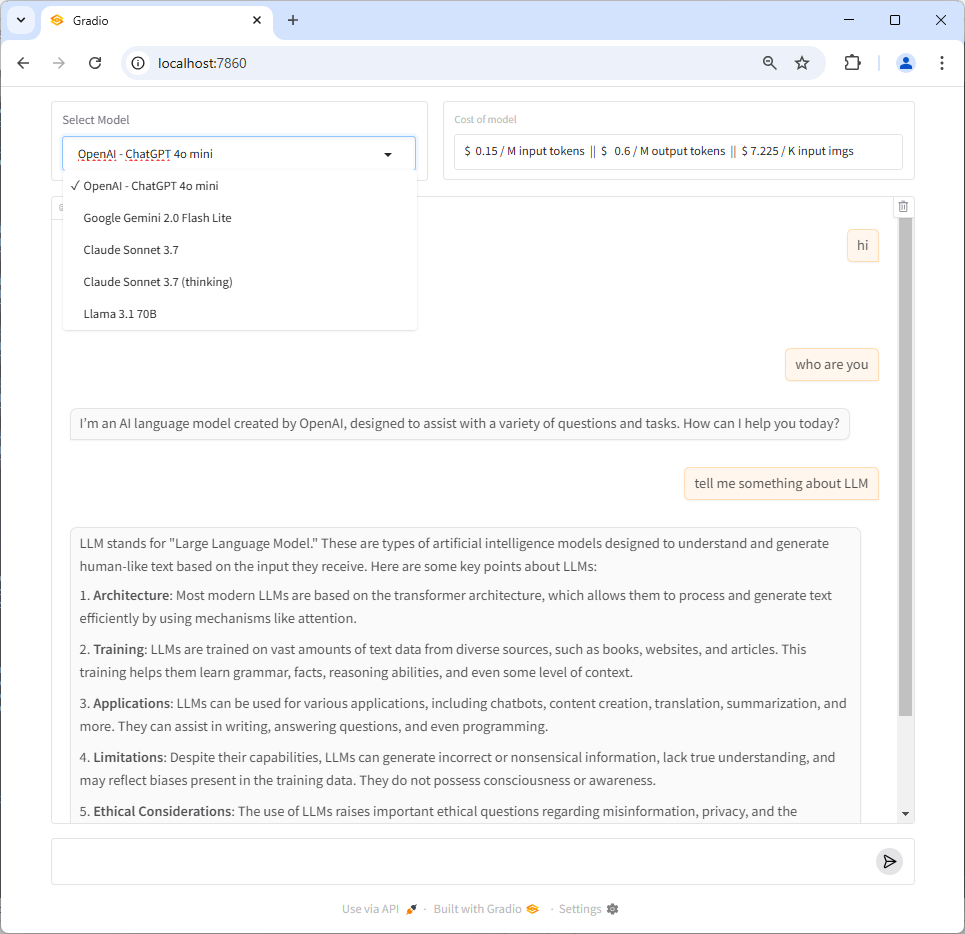
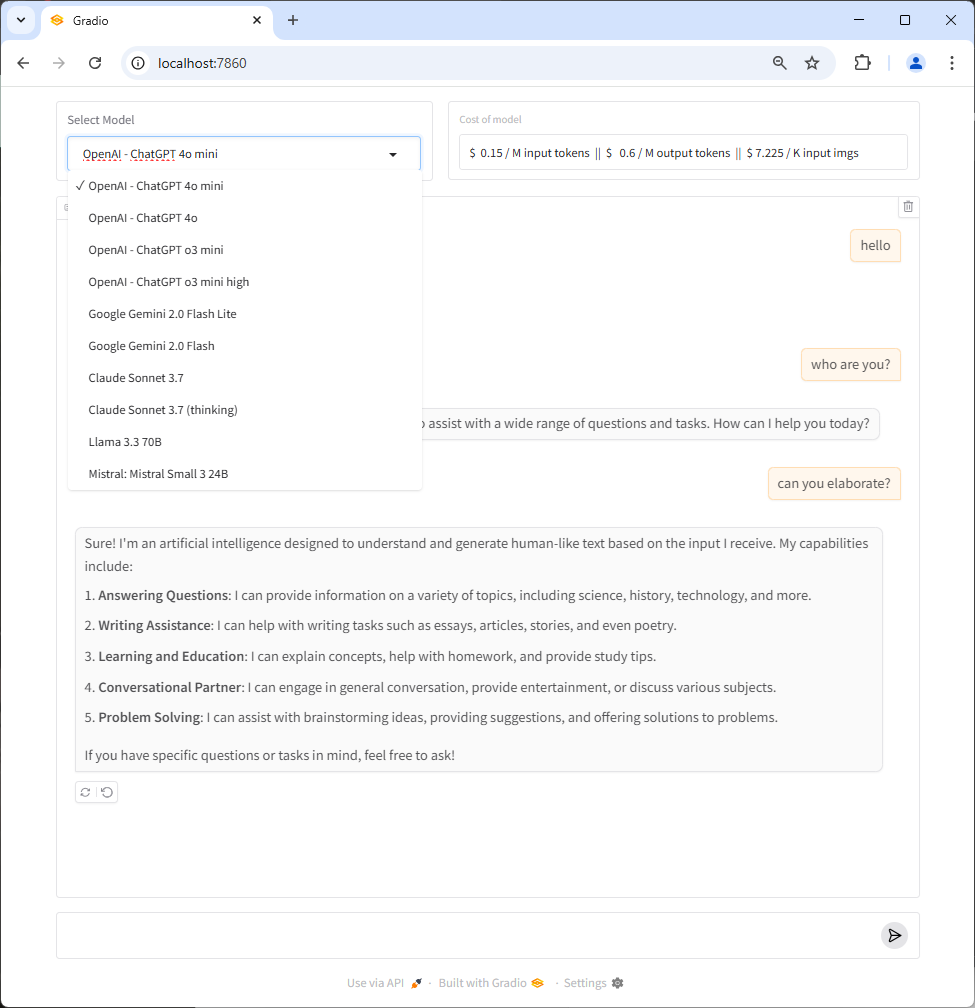
Add more models for ChatGPT, Gemini, Llama, Mistral

diff --git a/app/model_list.py b/app/model_list.py
@@ -3,9 +3,25 @@ models = {
         'display_name': "OpenAI - ChatGPT 4o mini",
         'cost': (0.15, 0.6, 7.225),
     },
+    "openai/gpt-4o-2024-11-20": {
+        'display_name': "OpenAI - ChatGPT 4o",
+        'cost': (2.5, 10, 3.613),
+    },
+    "openai/o3-mini": {
+        'display_name': "OpenAI - ChatGPT o3 mini",
+        'cost': (1.1, 4.4, None),
+    },
+    "openai/o3-mini-high": {
+        'display_name': "OpenAI - ChatGPT o3 mini high",
+        'cost': (1.1, 4.4, None),
+    },
     "google/gemini-2.0-flash-lite-001": {
         'display_name': "Google Gemini 2.0 Flash Lite",
         'cost': (0.075, 0.3, None),
+    },
+    "google/gemini-2.0-flash-001": {
+        'display_name': "Google Gemini 2.0 Flash",
+        'cost': (0.1, 0.4, 0.0258),
     },
     "anthropic/claude-3.7-sonnet": {
         'display_name': "Claude Sonnet 3.7",
@@ -15,8 +31,12 @@ models = {
         'display_name': "Claude Sonnet 3.7 (thinking)",
         'cost': (3, 15, 4.8),
     },
-    "meta-llama/llama-3.1-70b-instruct": {
-        'display_name': "Llama 3.1 70B",
+    "meta-llama/llama-3.3-70b-instruct": {
+        'display_name': "Llama 3.3 70B",
         'cost': (0.12, 0.3, None),
+    },
+    "mistralai/mistral-small-24b-instruct-2501": {
+        'display_name': 'Mistral: Mistral Small 3 24B',
+        'cost': (0.07, 0.14, None),
     },
 }
